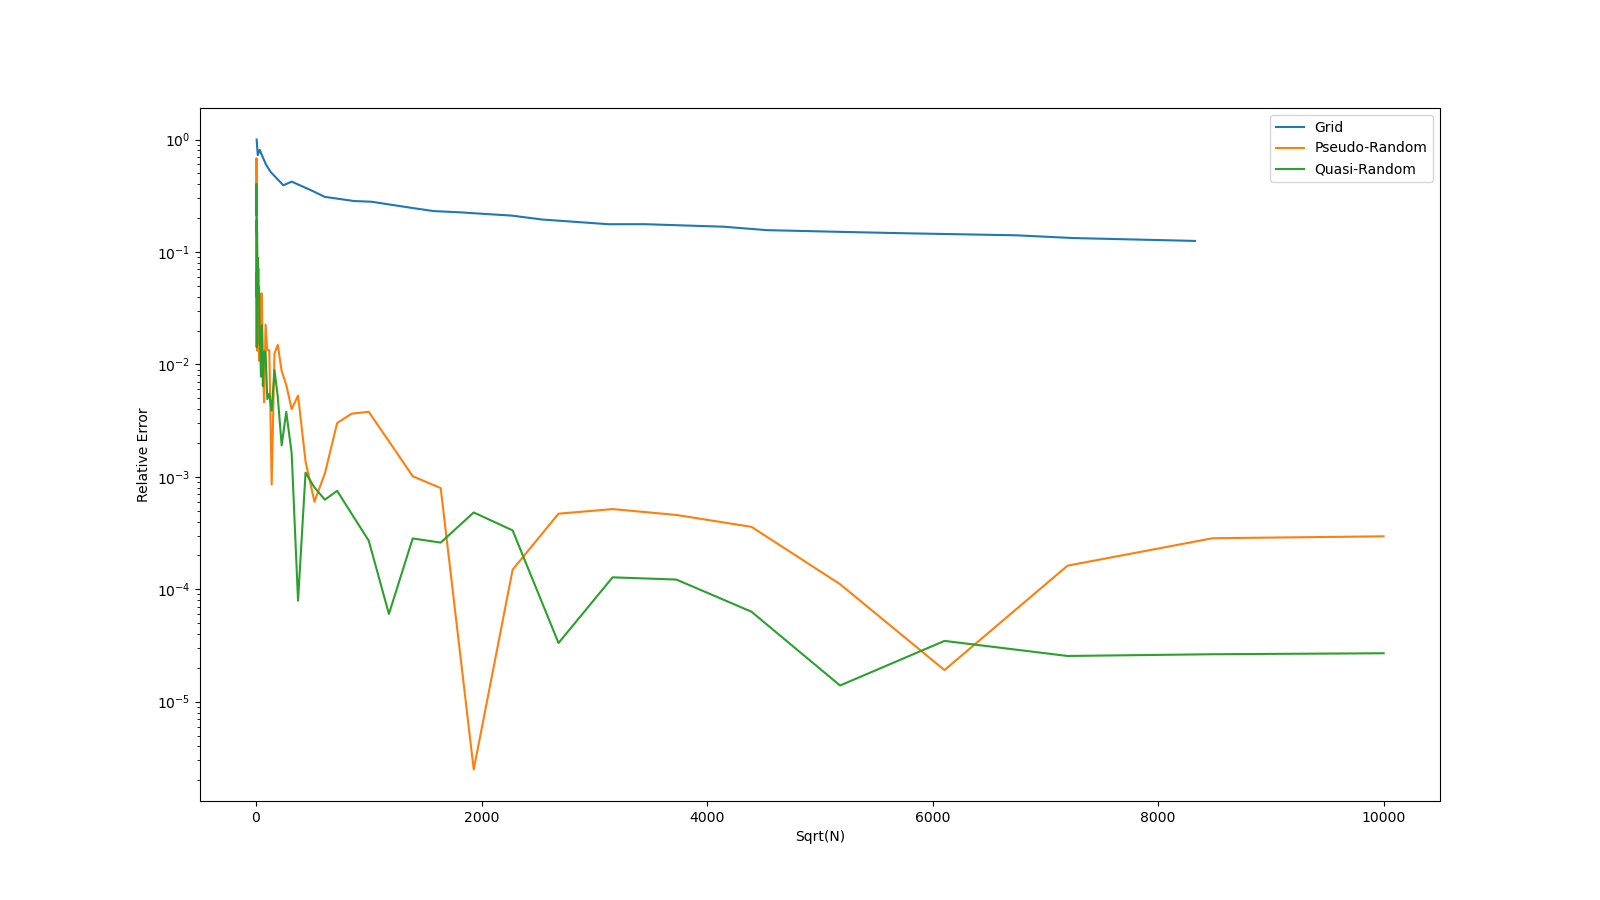
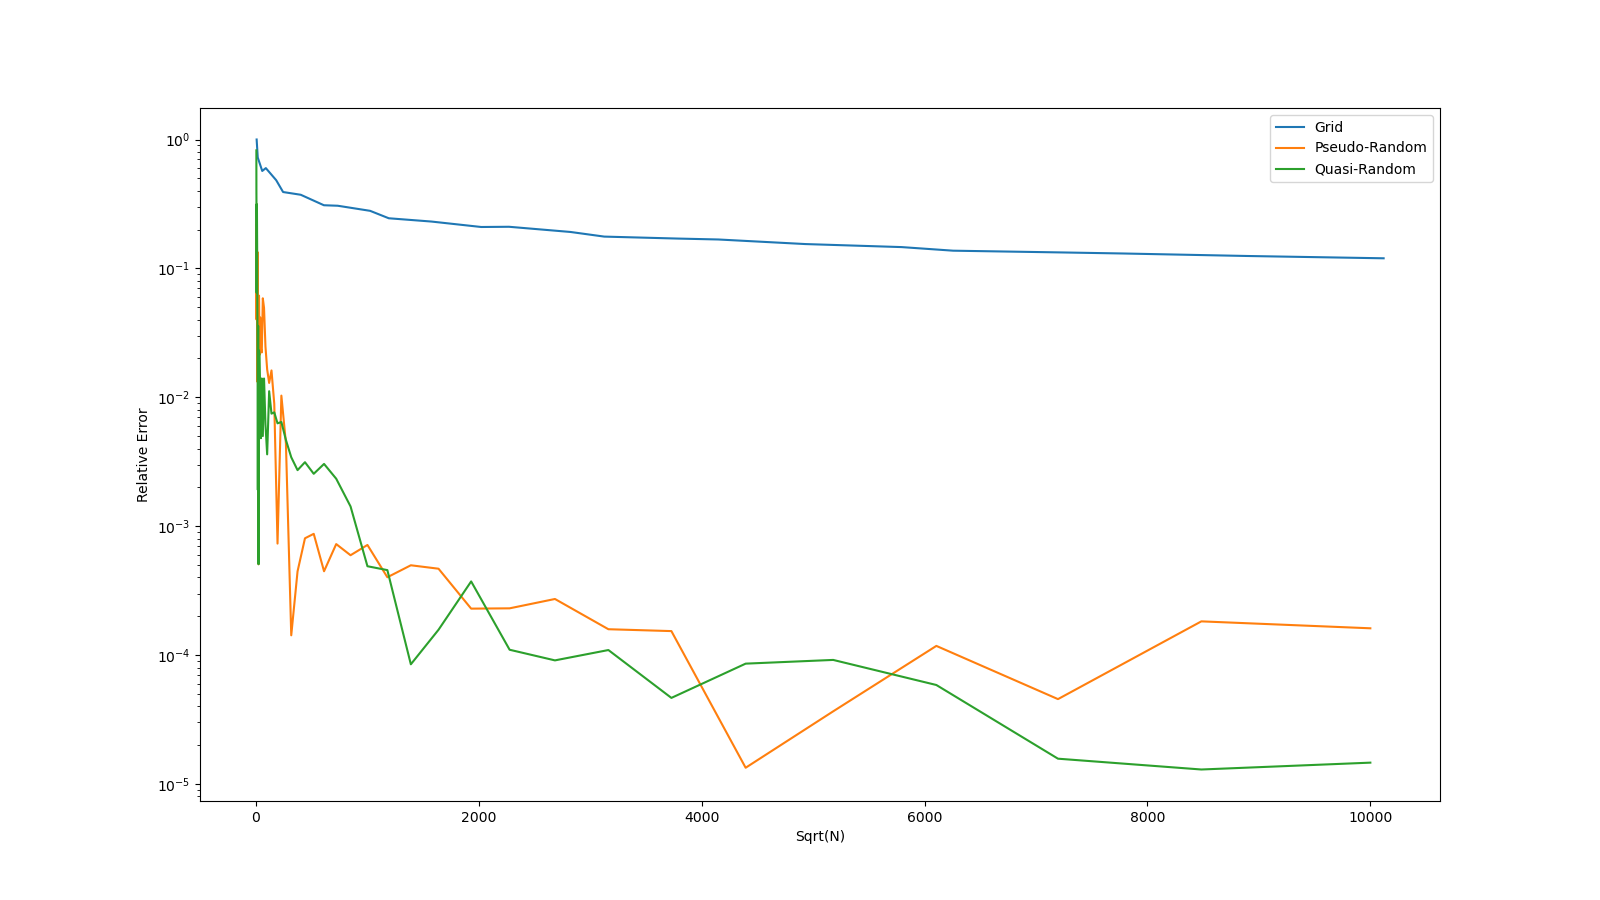
Improved Grid Integrator

diff --git a/methods.py b/methods.py
@@ -6,13 +6,17 @@ def grid_int(n_points):
 
     one_dim = np.linspace(-1, 1, n_points)
 
-    xv, yv, zv, wv, tv = np.meshgrid(one_dim, one_dim, one_dim, one_dim, one_dim, indexing='ij')
+    inside = 0
 
-    points = np.stack([xv.ravel(), yv.ravel(), zv.ravel(), wv.ravel(), tv.ravel()], axis=1)
+    for i in np.linspace(-1,1,n_points):
 
-    lengths = np.linalg.norm(points, axis=1)
+        xv, yv, zv, wv = np.meshgrid(one_dim, one_dim, one_dim, one_dim, indexing='ij')
 
-    inside = np.sum(np.where(lengths <= 1, 1, 0))
+        points = np.stack([xv.ravel(), yv.ravel(), zv.ravel(), wv.ravel(), np.ones(len(xv.ravel()))*i], axis=1)
+
+        lengths = np.linalg.norm(points, axis=1)
+
+        inside += np.sum(np.where(lengths <= 1, 1, 0))
 
     
     return inside/n_points**5*2**5
@@ -63,7 +67,7 @@ def err(x):
 
 
 if __name__ == "__main__":
-    n_grid = np.linspace(2, 37, 25, dtype=int)
+    n_grid = np.linspace(2, 40, 25, dtype=int)
     n_rand = np.logspace(1, 8, dtype=int)
 
     grid = []
